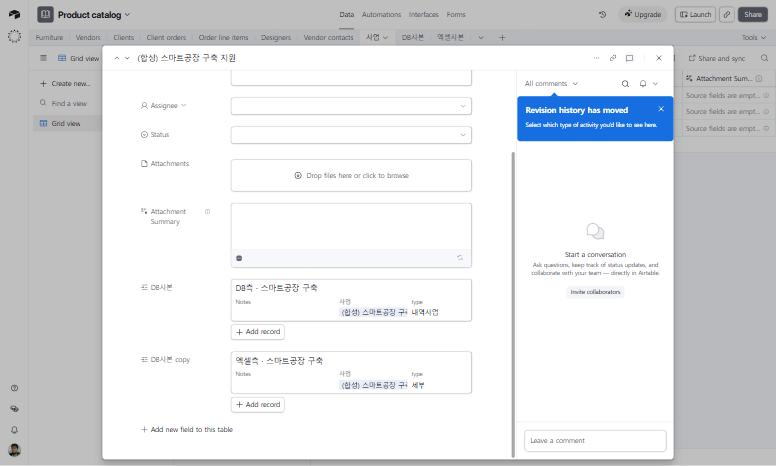
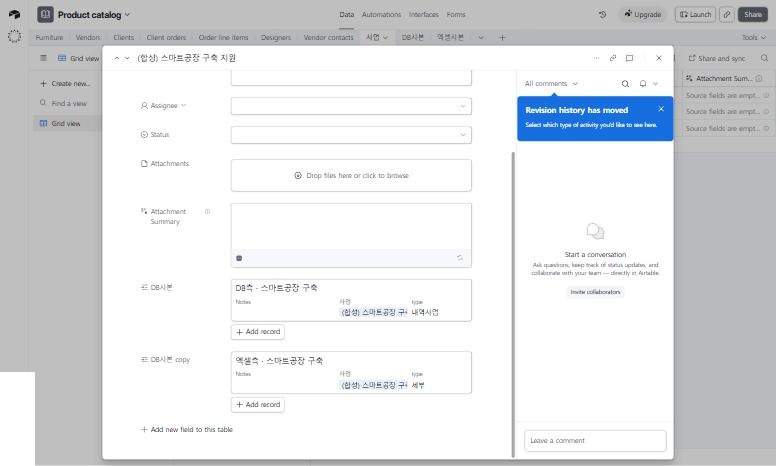
공개 전 검사: Airtable 캡처 2장을 계정 아바타 가린 버전으로 교체, 내부 DB 파일명 제거

Changed region(s): [[0.0, 0.7811, 0.0619, 1.0]]

diff --git a/docs/scenarios.md b/docs/scenarios.md
@@ -3,7 +3,7 @@
 근거: 세션 `f4efe5b6-77cf-417b-87ff-1a92300963e7` (2026-10-21 ~ 11-02). 숫자는 코드로 센 값.
 - 사용자 메시지 494건 → 스킬 본문·맥락 요약·다른 세션 메시지 제외 491건 → DB·엑셀 관련 48건 (scratchpad/classify_sc.py, 키워드 규칙)
 - 규칙 분류 후 메인이 메시지를 직접 읽어 오분류 제거(아래 "교차 확인" 열)
-- DB·엑셀 관련 도구 호출 617건, 반복 조회 상위 파일: budget_sme.sqlite 130회, budget_all.sqlite 58회, budget2026.all.sqlite 41회 (scratchpad/mine_session.py)
+- DB·엑셀 관련 도구 호출 617건, 반복 조회 상위 파일: budget_sme.sqlite 130회, 대형 DB(2.2GB) 58회, budget2026.all.sqlite 41회 (scratchpad/mine_session.py)
 
 구현 방식은 적지 않는다(블랙박스). 용어는 docs/glossary/GLOSSARY.md. `[n]`은 세션 사용자 메시지 번호.
 
@@ -79,7 +79,7 @@ v2 대비 변경: 두 소스 대조(v2의 SC3)를 "2단계로 미룸"에서 MVP 
 
 - 문자가 가장 많은 테이블은 두 DB 모두 `섹션원문`(44~48%). SC4의 실제 검색("패션 디자인 시제품")이 이 테이블의 셀 안 문장이라 이름만 색인하면 시나리오를 못 지킨다.
 - Kiwi 처리 속도: 섹션원문 셀 2,000,500자 → 1.6초(약 125만 자/초). 고유값 기준 budget2026.all 약 1분 남짓, budget_sme 30초 안팎.
-- 미측정: budget_all.sqlite(2.2GB) — 같은 비율이면 고유값 약 3억 자, 약 4분 추정. 색인 저장 크기와 문자 n-gram 색인 크기는 ⑤ 단계 전에 실측.
+- 미측정: 대형 DB(2.2GB)(2.2GB) — 같은 비율이면 고유값 약 3억 자, 약 4분 추정. 색인 저장 크기와 문자 n-gram 색인 크기는 ⑤ 단계 전에 실측.
 - 문자 n-gram(코드·숫자용)은 짧은 값(예: 64자 이하)에만 적용하는 안을 기본으로 하고, 크기 실측 후 확정.
 
 ## 역할 분담 (2026-11-03 사용자 결정)
